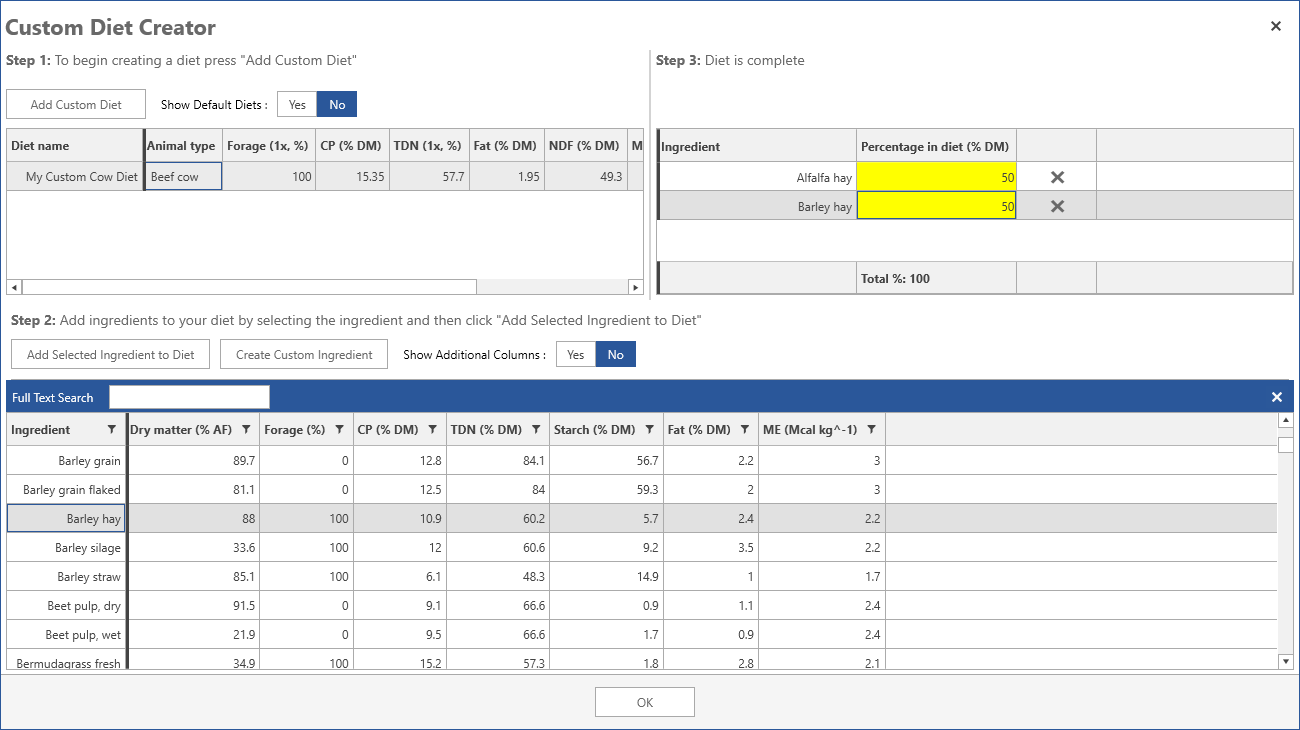
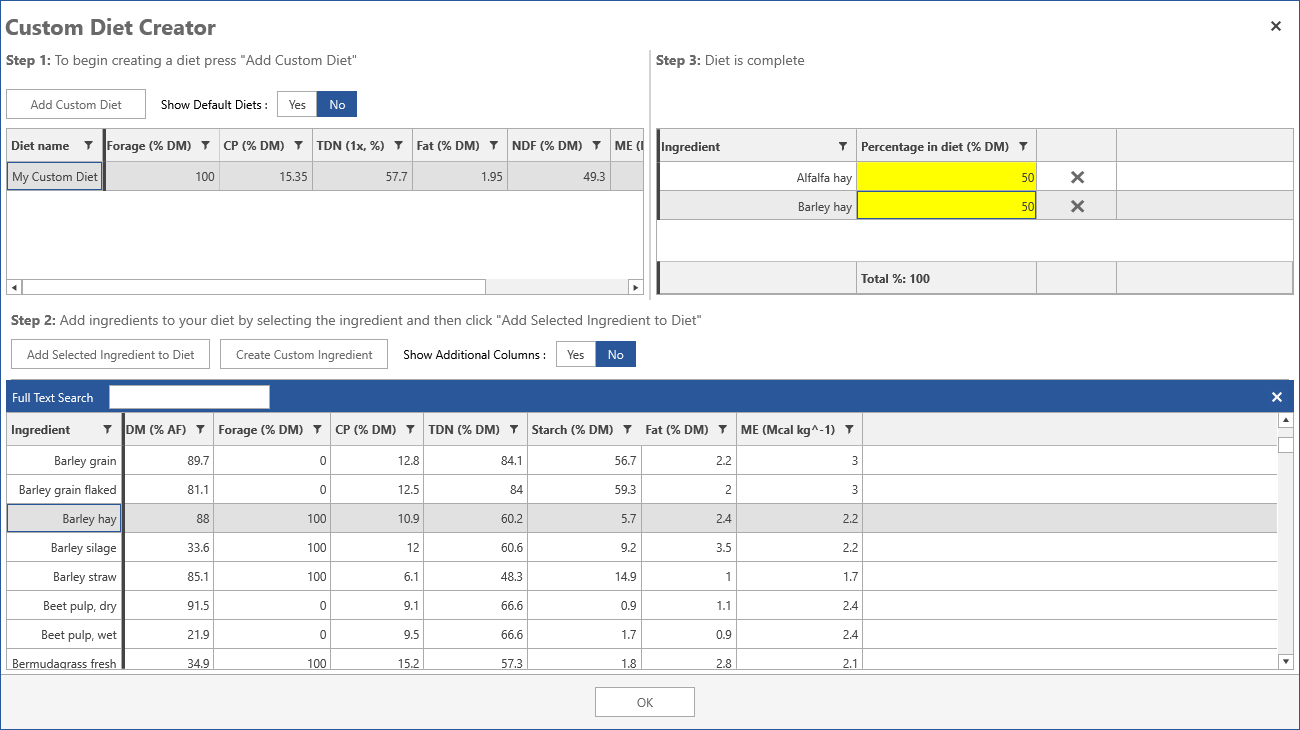
Updates images for training guide

diff --git a/H.Content/Documentation/Training/Holos_4_Training_Guide.md b/H.Content/Documentation/Training/Holos_4_Training_Guide.md
@@ -130,8 +130,6 @@ The Holos model is designed to define the land management before livestock. This
 
 ## Crop and Hay Production
 
-Note: In order to calculate soil carbon change for fields and crop rotations, click on the “Settings” menu and select the “Multi-year” option (default is Single-Year).
-
 Now we can add our first component to the farm. Drag a “Field” component from the left side of the screen and drop it on the “My Farm” on the right side (Figure 9). The screen will now update to reflect this new component that you have added to your farm. Holos will  label the field as “Field #1”. At this point, we can now enter production information related to the crop being grown on this field.  
 
 
@@ -312,7 +310,6 @@ Click on the ‘**Diet**’ tab. Since we are going to create our own custom die
 
     * Click the “**Add Custom Diet**” button in the “**Step 1**” section of the screen to create a new custom diet.
     * Rename this diet to “**My Custom Cow Diet**” then press the Enter key to save the name.
-    * Under step 1, ensure that you have the **Animal Type** set to **Beef Cow**.
     * To add ingredients to our new diet, select “**Alfalfa hay**” from the ingredient list, and then click the “**Add Selected Ingredient to Diet**” button.
     * We will add one more ingredient to our diet. Select ‘**Barley Hay**’ from the ingredient list, and then click the “**Add Selected Ingredient to Diet**” button.
     * Enter **50%** for ‘**Barley Hay**’ and **50%** for ‘**Alfalfa Hay**’ in “**Step 3**”. Note that Holos now reports the diet being complete since all ingredients total up to 100%.
@@ -588,9 +585,9 @@ We will add one last animal component to our farm. In addition to the beef cattl
 
 1. Drag one "**Chicken Meat Production**" component to the farm. For each group (Pullets and Cockerels), each management period for that group will consist of **400** animals. This means numbers of animals will be consistent throughout the management periods / year.
 2. Select the **Pullets** group. The start and end dates for each management period will be:
-    - **Brooding Stage:** Start January 1st, 2022 - End January 22nd, 2022. 
-    - **Rearing Stage:** Start January 23rd, 2022 - End June 26th, 2022.
-    - **Rearing Stage:** Start June 27th, 2022 - End November 28th, 2022.
+    - **Brooding Stage:** Start: January 1st, 2022 - End: January 22nd, 2022. 
+    - **Rearing Stage:** Start: January 23rd, 2022 - End: June 26th, 2022.
+    - **Rearing Stage:** Start: June 27th, 2022 - End: November 28th, 2022.
 3. For each management period, set number of animals to **400**.
 4. Leave the entries in Housing and Manure as default.
 
@@ -615,7 +612,7 @@ The **Add Historical Production System** button enables the user to add a differ
 
 We will assume that the barley grain and mixed hay rotation fields were previously in a continuous wheat cropping system between **1985 and 2000.**
 
-1. To add a new historical cropping system, select one of the fields that are in the barley grain and mixed hay rotation. To select an item, click on the timeline bar to activate that field. We will select the first field in this rotation (i.e., the field with the name of “**Crop rotation #1 [Field #1]**”)
+1. To add a new historical cropping system, select one of the fields that are in the barley grain and mixed hay rotation. To select an item, click on the timeline bar to activate that field. We will select the first field in this rotation (i.e., the field with the name of “**Crop rotation #1 [Field #1] - Barley**”)
 
 2. Click on the **Add Historical Production System** button which will add a new row to the table under the “**Step 1**” section in the upper left section of the screen. Notice that this new entry has the words “**Historical management practice**” added.
 
@@ -625,7 +622,7 @@ We will assume that the barley grain and mixed hay rotation fields were previous
 
 5. Click on the “**Barley**” crop under the “**Step 2**” section. Change the crop type to ‘**Wheat**’ and on the ‘**General**’ tab change the yield to **3,500** kg/ha. We will keep the other settings unchanged.
 
-6. We also need to remove the “**Hay mixed**” crops from this historical period. Click the ‘**x**’ icon beside each of the “**Hay mixed**” crops under the “**Step 2**” section. Clicking the ‘**x**’ icon will remove these crops from the rotation for this period of time.
+6. We also need to remove the “**Tame mixed**” crops from this historical period. Click the ‘**x**’ icon beside each of the “**Tame mixed**” crops under the “**Step 2**” section. Clicking the ‘**x**’ icon will remove these crops from the rotation for this period of time.
 
 7. Click “**Ok**” to save adjustments we just made to this field.
 
